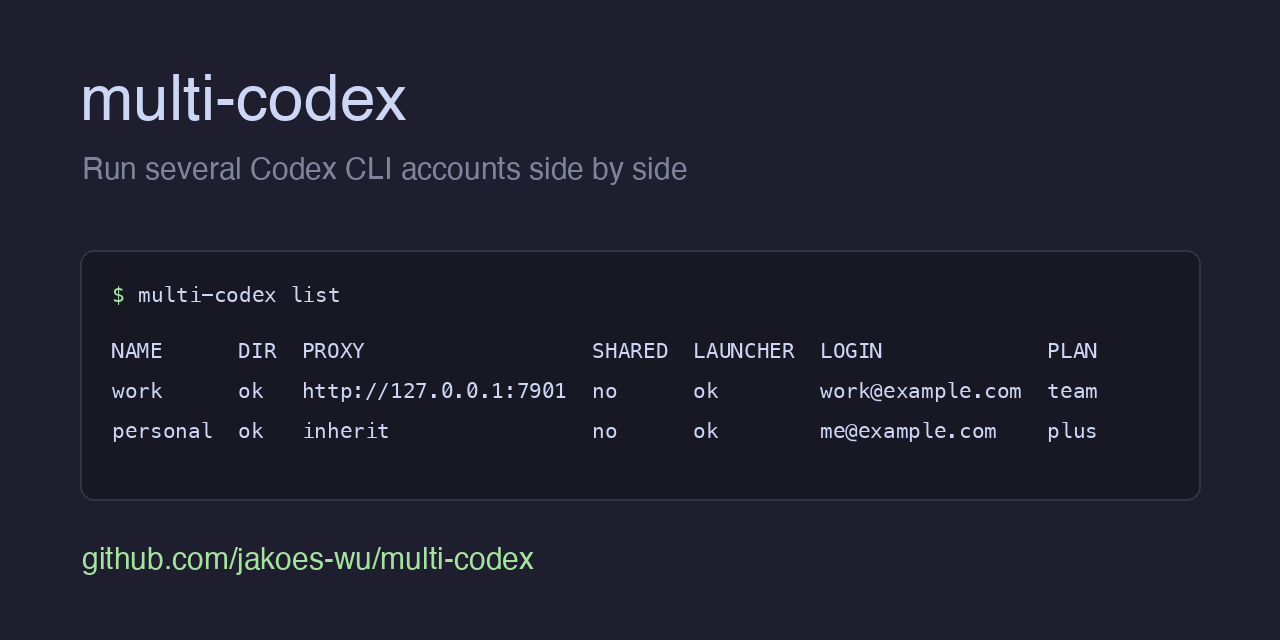
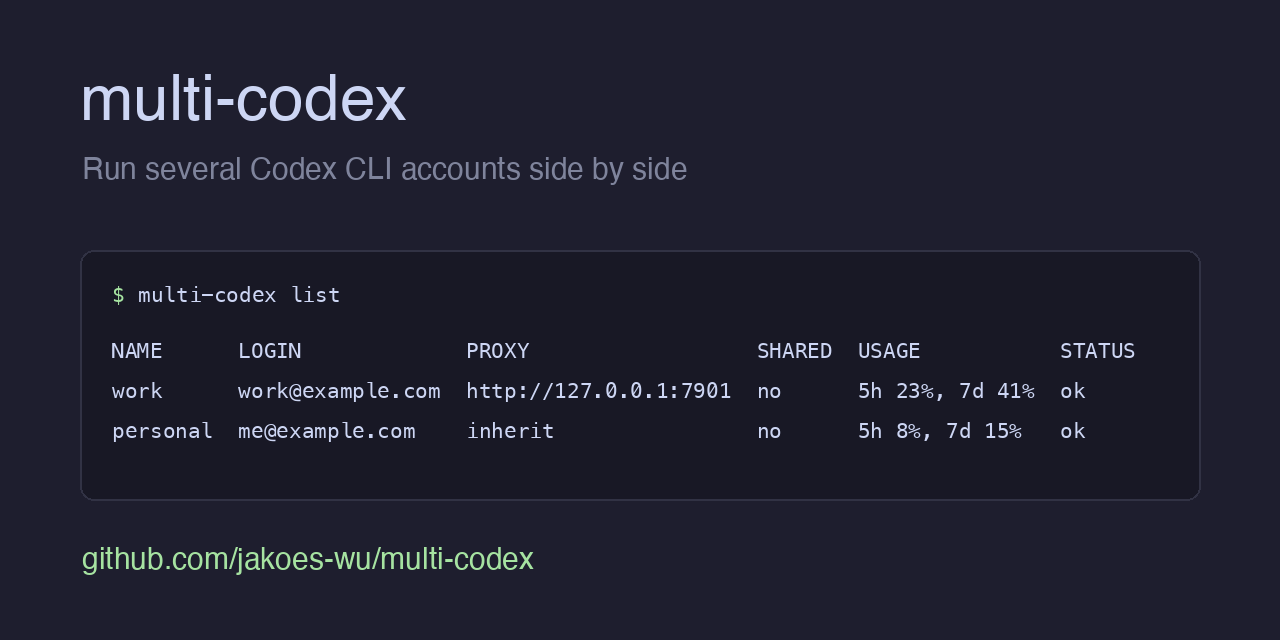
docs: 演示图与社交预览图更新为 0.10 的 list 简表（含示例额度） (#28)

diff --git a/scripts/make-assets.py b/scripts/make-assets.py
@@ -19,6 +19,7 @@ import shutil
 import subprocess
 import sys
 import tempfile
+import time
 
 ROOT = os.path.dirname(os.path.dirname(os.path.abspath(__file__)))
 MONO_FONT = "/System/Library/Fonts/Menlo.ttc"
@@ -73,6 +74,19 @@ def capture_session():
             path = os.path.join(home, ".cx", name, "auth.json")
             with open(path, "w") as handle:
                 json.dump(data, handle)
+        # 示例额度：真实使用时 Codex 把额度快照写进会话日志，list 的 USAGE 列只读本机这份记录。
+        # 格式与 Codex 写的一致（紧凑 JSON，usage 按 `"rate_limits":{` 片段预过滤）。
+        for name, five_hour, weekly in (("work", 23.0, 41.0), ("personal", 8.0, 15.0)):
+            later = int(time.time()) + 3600
+            limits = {"limit_id": "codex",
+                      "primary": {"used_percent": five_hour, "window_minutes": 300, "resets_at": later},
+                      "secondary": {"used_percent": weekly, "window_minutes": 10080, "resets_at": later + 86400}}
+            record = {"timestamp": time.strftime("%Y-%m-%dT%H:%M:%S.000Z", time.gmtime()), "type": "event_msg",
+                      "payload": {"type": "token_count", "info": None, "rate_limits": limits}}
+            log_dir = os.path.join(home, ".cx", name, "sessions", "2026", "01", "01")
+            os.makedirs(log_dir)
+            with open(os.path.join(log_dir, "rollout-demo.jsonl"), "w") as handle:
+                handle.write(json.dumps(record, separators=(",", ":")) + "\n")
         session.append(("# log in once per account: multi-codex login work", []))
         session.append(("multi-codex list", run("list")))
         session.append(("# codex-work and codex-personal now run side by side", []))
